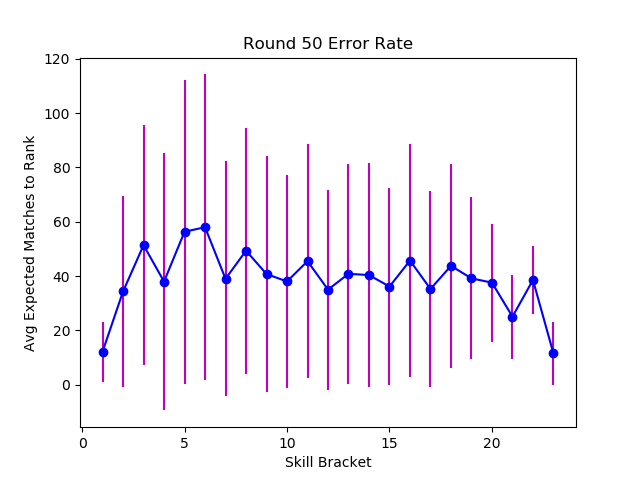
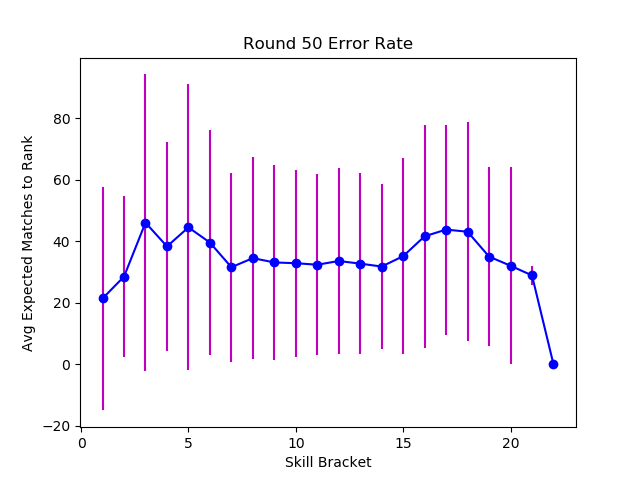
updating new post

diff --git a/Eloschatology.html b/Eloschatology.html
@@ -88,7 +88,7 @@ play_tournament(players, <span class="arg">team_size</span>=1, <span class="arg"
 
                 <div id="inline-block">
                     <img class="img-thumbnail" width="45%" src="res/img/Elo/chess_rankings.png">
-                    <img class="img-thumbnail" width="45%" src="res/img/Elo/test1/Rd50_dist.png">
+                    <img class="img-thumbnail" width="45%" src="res/img/Elo/test1/Rd25_dist.png">
                 </div>
 
                 <div id="text-block">
